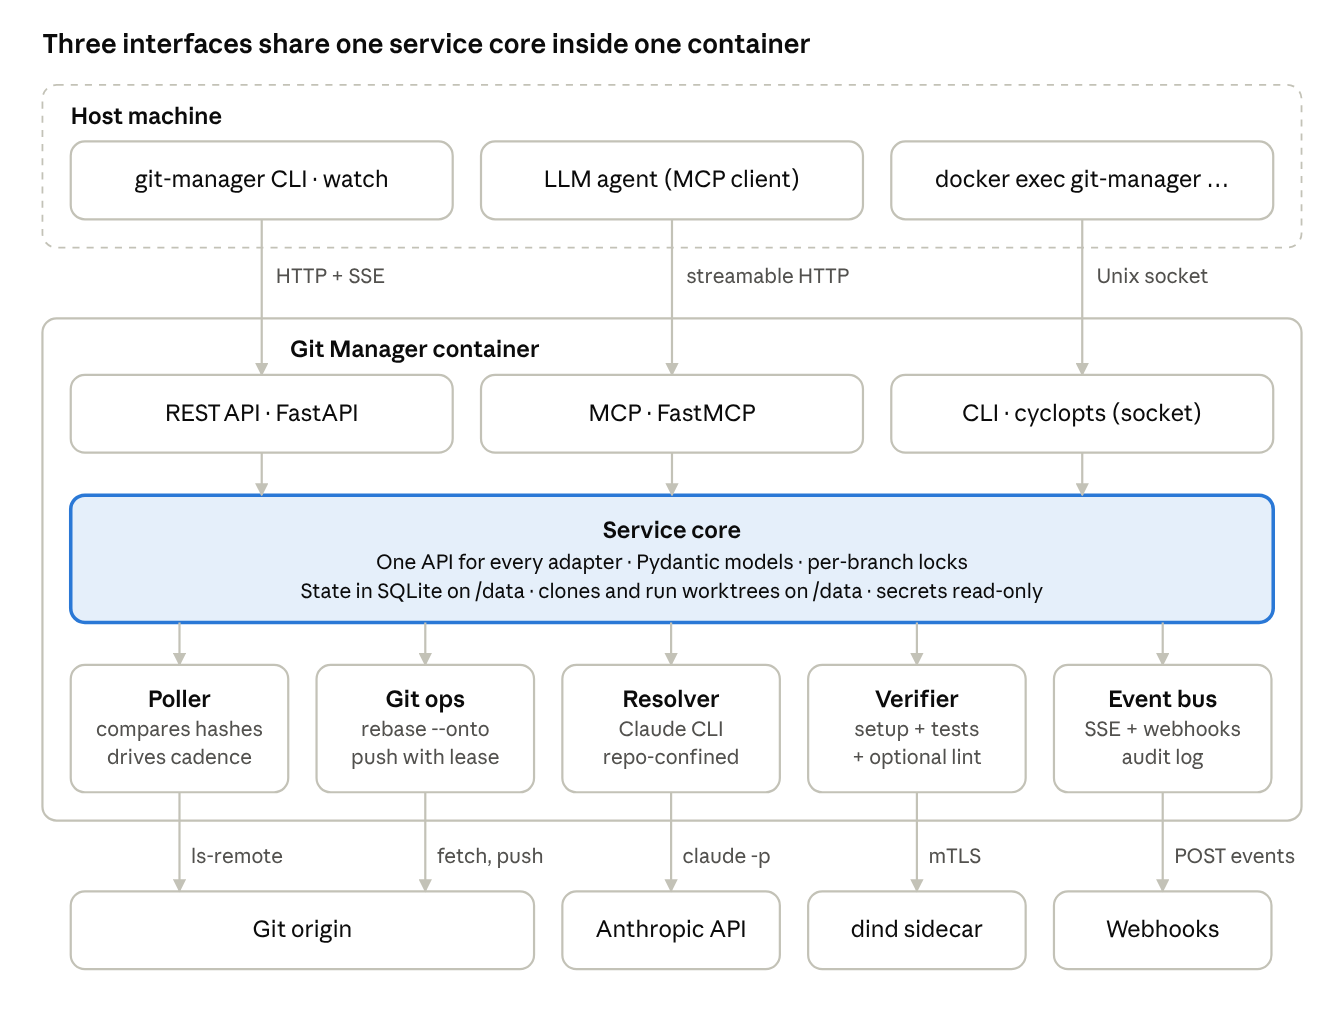
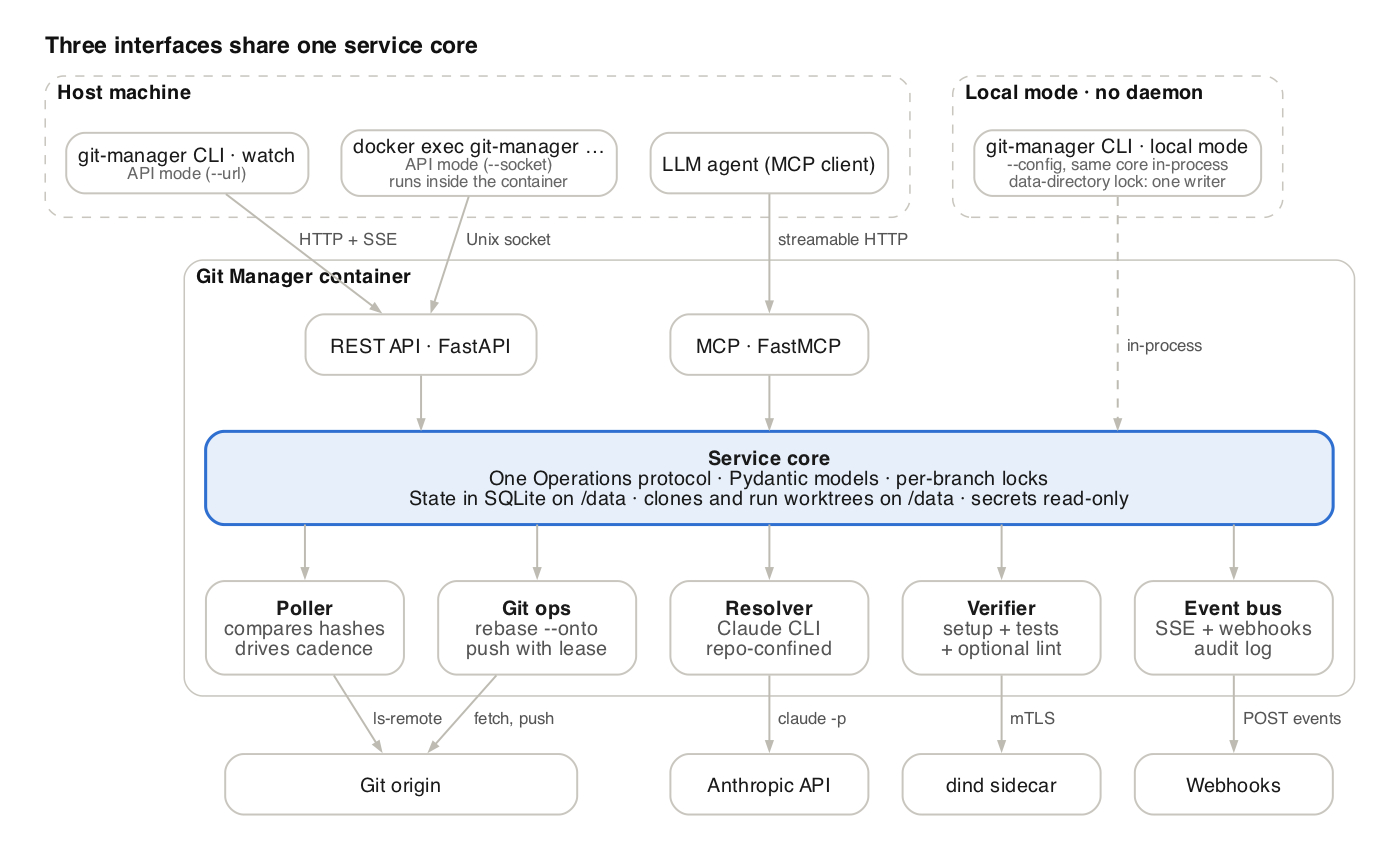
docs(spec): generate diagrams from Graphviz sources
Store the architecture and lifecycle diagrams as Graphviz .dot files
next to their PNGs, and add `just diagrams` to re-render every
design-docs/images/*.dot (needs Graphviz).

The lifecycle diagram keeps its content. The architecture diagram now
shows the CLI modes: API mode reaches REST over HTTP or the Unix
socket, and local mode runs the same service core in-process under a
data-directory lock, with no separate CLI box in the container.

diff --git a/design-docs/spec.md b/design-docs/spec.md
@@ -67,7 +67,7 @@ The nine requirements cover the happy path well; the gaps are mostly about histo
 
 A single long-running container hosts the daemon; every interface calls the same service core, and only the worker modules touch git, Claude or the network.
 
-![Architecture: three interfaces share one service core inside one container](images/architecture.png)
+![Architecture: three interfaces share one service core](images/architecture.png)
 
 The host only talks to the container through the API, the MCP endpoint or `docker exec`; the container never mounts the developer's working copy. The CLI can also run the same service core in-process from a config file, without a daemon (local mode; see Interfaces). Each sync runs in a throwaway `git worktree` under `/data`, so a crashed or rejected run leaves the managed clone untouched.
 

diff --git a/README.md b/README.md
@@ -18,6 +18,7 @@ just check     # format check, lint, type check, tests
 just coverage  # tests with branch coverage
 just serve     # REST on http://127.0.0.1:8765, GET /healthz
 just mcp       # MCP over stdio
+just diagrams  # re-render design-docs/images/*.dot (needs Graphviz)
 ```
 
 The CLI is `git-manager`; once installed on `PATH`, git also runs it as `git manager`.
